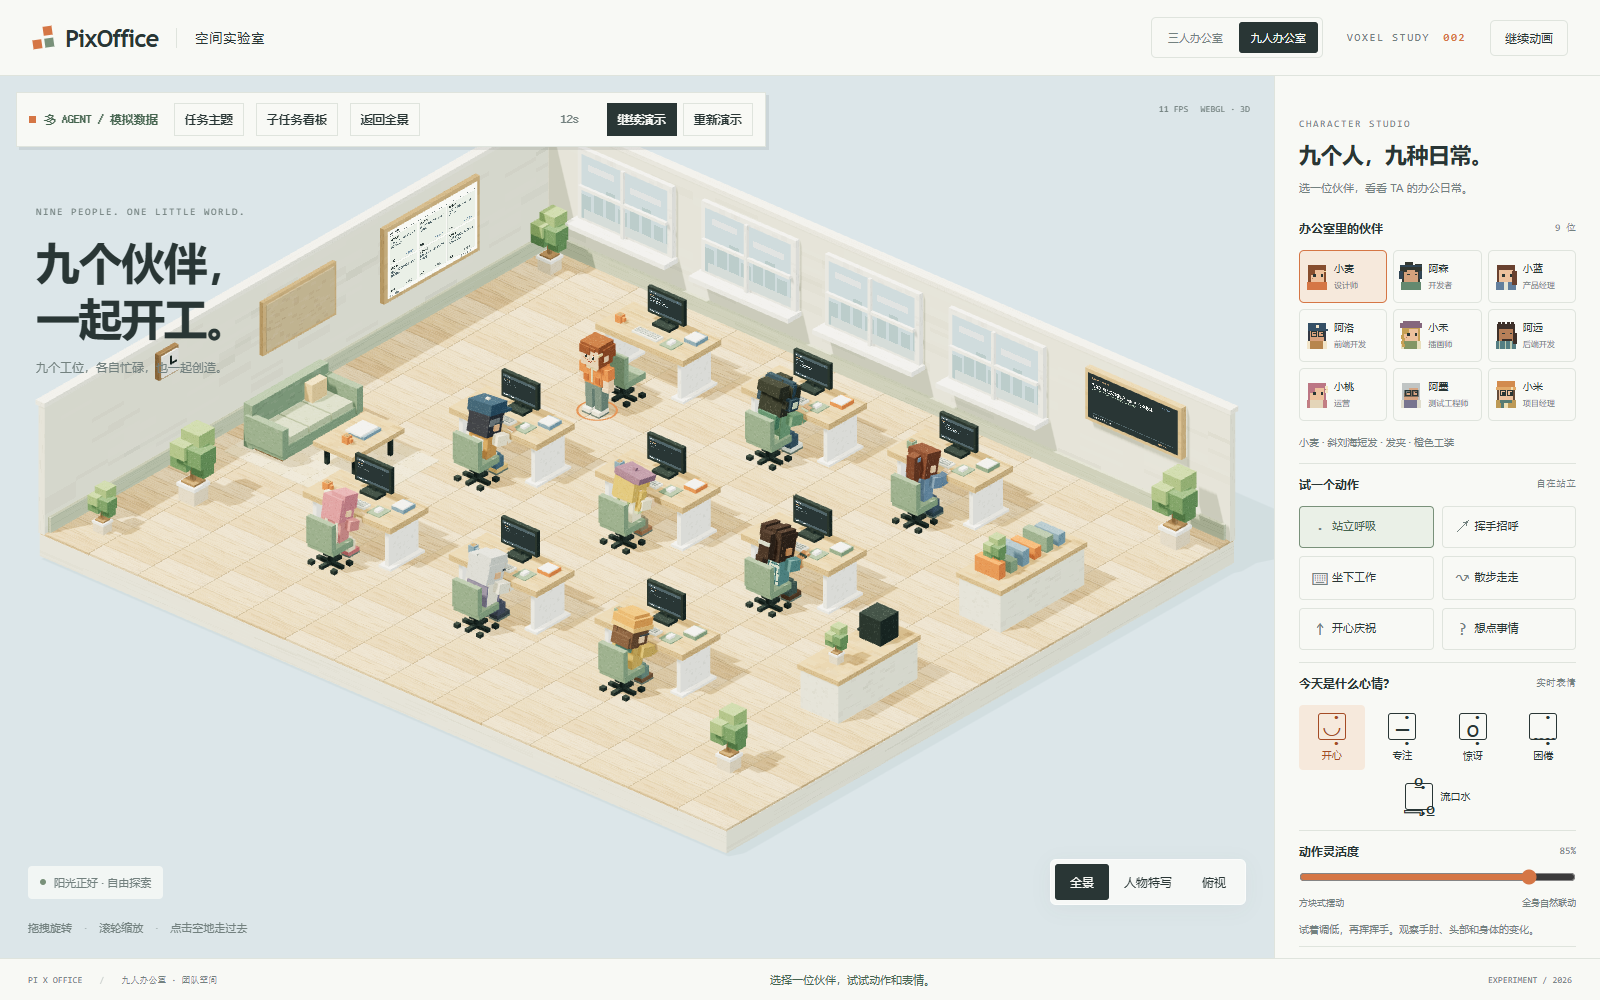
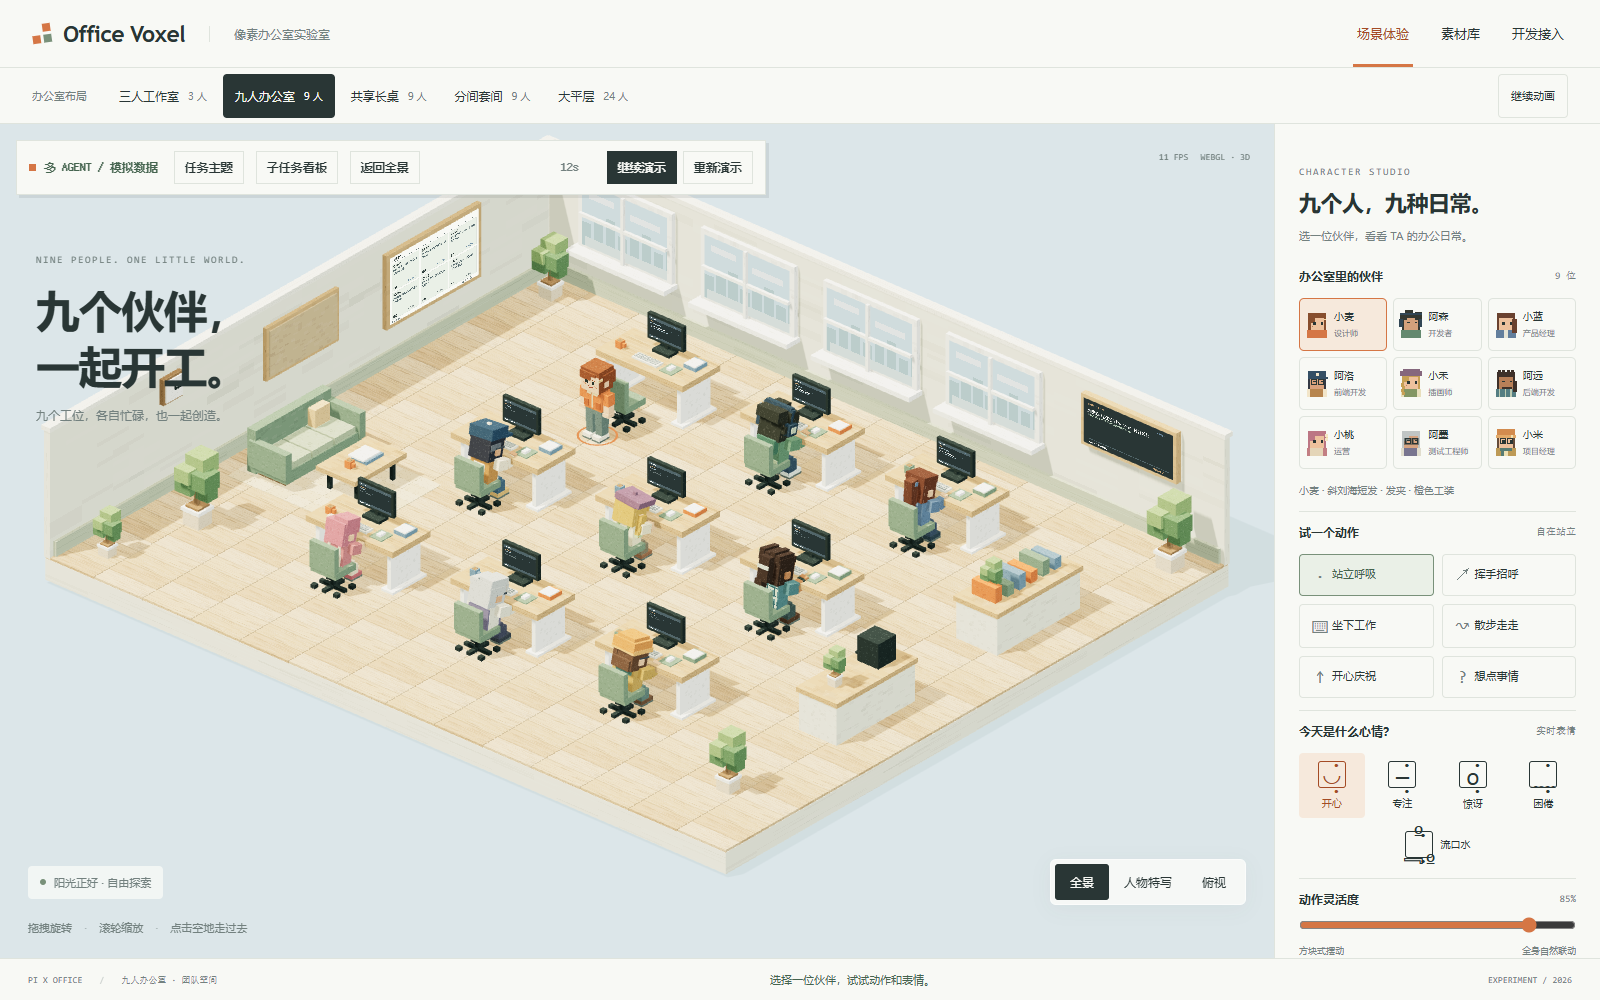
docs: refresh screenshots and navigation guide

Changed region(s): [[0.0, 0.0, 0.9688, 0.868], [0.8125, 0.124, 1.0, 0.961], [0.9062, 0.496, 1.0, 0.682]]

diff --git a/README.md b/README.md
@@ -4,9 +4,9 @@
 
 基于 Three.js、原生 JavaScript ES 模块和 Vite 的浏览器前端。角色在自己的工位工作，黑板展示任务目标，白板展示子任务，每台电脑显示对应 Agent 的操作与日志。模型、关节动画和像素贴图由代码生成，运行时无需外部模型服务或远程 CDN。
 
-![九人办公室：三排独立工位、休息区与人物控制面板](docs/images/office-nine.png)
+![新版九人办公室：统一网站导航、五种布局入口、任务工具栏与人物控制面板](docs/images/office-nine.png)
 
-> 当前提供可交互的前端演示和模拟任务数据；接入真实 Agent 服务需实现任务数据源接口。截图均由本仓库实际运行的页面截取。
+> 当前提供可交互的前端演示和模拟任务数据；接入真实 Agent 服务需实现任务数据源接口。本文全部截图于 **2026-10-19** 从当前版本重新拍摄，包含统一导航、手机首屏和 iframe 宿主示例。
 
 ## 可以做什么
 
@@ -38,6 +38,24 @@ npm run dev
 | 人物工作室 | `/characters.html` | 25 位人物、28 套外观、动作与表情 |
 | 物品工作室 | `/objects.html` | 12 件家具与工位素材预览 |
 | 嵌入示例 | `/embed.html` | 同源宿主控制 iframe |
+
+## 网站导航与使用
+
+所有完整页面共用两级导航。顶部切换功能分区，下一行显示当前分区的页面；点击左上角 **Office Voxel** 返回三人工作室。
+
+| 顶部入口 | 分区内入口 | 适合做什么 |
+| --- | --- | --- |
+| 场景体验 | 三人工作室、九人办公室、共享长桌、分间套间、大平层 | 浏览空间、选择人物、观察模拟任务 |
+| 素材库 | 人物素材、物品素材 | 搜索和筛选素材，查看外观与 3D 预览 |
+| 开发接入 | iframe 嵌入示例 | 体验宿主页面控制人物和镜头 |
+
+**第一次体验**：进入「场景体验」，切换到「九人办公室」；点击「任务主题」和「子任务看板」了解当前任务，再点击人物头像并选择「查看电脑屏幕」，查看这个 Agent 的操作与日志。
+
+**手机上使用**：顶部三个分区直接点击，分区内入口通过下一行的选择菜单切换。办公室选项同时标注布局名称和人数；浏览器后退时，菜单恢复为当前页面。3D 场景支持单指拖动和双指缩放，人物控制面板位于场景下方。
+
+<img src="docs/images/office-mobile.png" alt="390×844 手机首屏：三个功能分区、办公室选择菜单及 3D 场景" width="320" />
+
+**两个暂停按钮**：「暂停动画」控制人物动作；任务工具栏中的「暂停演示」控制模拟任务播放，任务还可以单独重播。两者独立，暂停人物后仍可观察任务进度。
 
 ## 五种办公室
 
@@ -92,12 +110,18 @@ npm run export:characters -- --only=portrait --ids=team-00
 
 同源父页面可通过结构化 `postMessage` 控制人物、动作、表情和镜头。完整宿主示例见 [`embed.html`](embed.html)，消息格式见 [嵌入指南](docs/usage.md#嵌入)。
 
+从顶部「开发接入」进入示例后，使用 iframe 下方的按钮让人物挥手、庆祝或切换镜头。iframe 内的 `?embed=1` 模式隐藏网站导航和人物面板，保留 3D 场景、任务工具栏与镜头操作。
+
+![新版开发接入页面：统一导航、纯场景 iframe 与宿主控制按钮](docs/images/embed-example.png)
+
 ```sh
 npm run build
 npm run preview
 ```
 
 主构建输出到 `dist/`，包含五种办公室、人物、物品和嵌入示例，共八个页面；预览地址为 [http://127.0.0.1:5197/](http://127.0.0.1:5197/)。长桌、套间和大平层仍可分别运行 `npm run build:loft`、`npm run build:suite`、`npm run build:floor`，输出到各自的 `dist-*` 目录；这些独立构建仅显示实际包含的页面入口。构建使用相对资源路径，可部署到静态网站子目录；请通过 HTTP 服务访问。
+
+发布完整网站时上传 **整个 `dist/` 目录的内容**，包含八个 HTML 和共用的 `assets/` 等文件，不需要再合并三个独立构建。部署到 `/voxel-office/` 等子目录后，从该目录的 `index.html` 进入，导航沿用相对路径。
 
 ## 开发与验证
 
@@ -109,6 +133,8 @@ npm run preview
 | `src/assets/` | 人物、家具、环境、材质与内置字体 |
 | `src/integrations/` | 任务数据、3D 展示与 iframe 适配 |
 | `src/tools/`、`scripts/`、`tests/` | 素材工作室、导出与自动化验证 |
+
+网站页面名称、URL、分区和人数统一维护在 [`src/app/site-pages.js`](src/app/site-pages.js)。共享导航在 Vite 处理 HTML 时生成；增加网站入口时，同时注册页面并在 HTML 中保留导航挂点。布局数据仍由 `src/layouts/registry.js` 独立维护，具体流程见[项目架构](docs/architecture.md#网站导航与构建入口)。
 
 ```sh
 npm test
@@ -128,7 +154,9 @@ npm run test:browser:assets
 npm run test:browser:tasks
 ```
 
-场景变更的完整回归要求见 [贡献指南](AGENTS.md)。测试截图与报告写入忽略的 `.artifacts/`。README 截图保存在 `docs/images/`，运行 `node scripts/capture-readme.mjs` 可重新拍摄；脚本会自行启动并关闭 5208 端口的临时服务。
+场景变更的完整回归要求见 [贡献指南](AGENTS.md)。导航专项检查涵盖八页入口、320–1440px 响应式、手机菜单切换与后退状态、iframe 控制和纯场景模式。测试截图与报告写入忽略的 `.artifacts/`。
+
+README 的十张实机截图保存在 `docs/images/`。安装 Playwright Chromium 后，运行 `node scripts/capture-readme.mjs` 可一次重新拍摄全部图片；脚本会自行启动并关闭 5208 端口的临时服务，检查导航、页面溢出和浏览器错误。更新截图后，同步修改本文的拍摄日期，并将图片与文档一起提交。
 
 ## 当前边界
 

diff --git a/docs/usage.md b/docs/usage.md
@@ -19,6 +19,9 @@ npm run dev --workspaces=false
 
 - 完整实验室：<http://127.0.0.1:5196/>
 - 九人办公室：<http://127.0.0.1:5196/nine.html>
+- 共享长桌：<http://127.0.0.1:5196/loft.html>
+- 分间套间：<http://127.0.0.1:5196/suite.html>
+- 大平层：<http://127.0.0.1:5196/floor.html>
 - 人物素材（动作与表情）：<http://127.0.0.1:5196/characters.html>
 - 物品素材：<http://127.0.0.1:5196/objects.html>
 - 素材目录发现、扩展和更新方式见 [动态素材工作室](asset-library.md)。
@@ -51,7 +54,19 @@ npm run preview --workspaces=false
 
 默认构建输出为本目录 `dist/`，包含全部八个网站页面，可部署到普通静态网站子目录；preview 端口为 5197。`build:loft`、`build:suite`、`build:floor` 保留单页发布方式，导航自动限制在各自产物包含的页面内。不要直接用 `file://` 打开构建结果。
 
+发布完整站点时，上传整个 `dist/` 的内容，保留八个 HTML、`assets/` 和许可证目录之间的相对位置。三个单页构建适用于单独发布某一种办公室，完整站点无需合并它们的输出。
+
 ## 如何体验
+
+### 网站导航、手机与暂停控制
+
+- 点击顶部「场景体验」「素材库」「开发接入」切换分区。第二行提供当前分区的页面入口，办公室名称旁显示容量；点击左上角 Office Voxel 返回三人工作室。
+- 窄屏下第二行使用选择菜单，所有五种办公室仍可进入。浏览器后退时菜单恢复为当前页面；人物控制面板移到场景下方。触屏支持拖动旋转和双指缩放。
+- 「暂停动画」暂停人物动作；任务工具栏的「暂停演示」暂停模拟任务进度。两者独立，可以暂停人物后继续查看任务，也可暂停任务后操作人物。
+- 在「素材库」切换人物与物品，使用搜索和分类缩小范围，再点击素材卡片查看实时预览。地址中的 `?asset=...` 可以分享当前素材。
+- 在「开发接入」使用 iframe 下方的按钮控制内嵌人物和镜头。纯场景 `?embed=1` 隐藏网站导航及人物面板，保留任务和镜头操作。
+
+当前版本的实机图片与手机首屏见 [README 的导航指南](../README.md#网站导航与使用)，嵌入宿主截图见 [嵌入与部署](../README.md#嵌入与部署)。
 
 ### 多 Agent 动态任务演示
 
